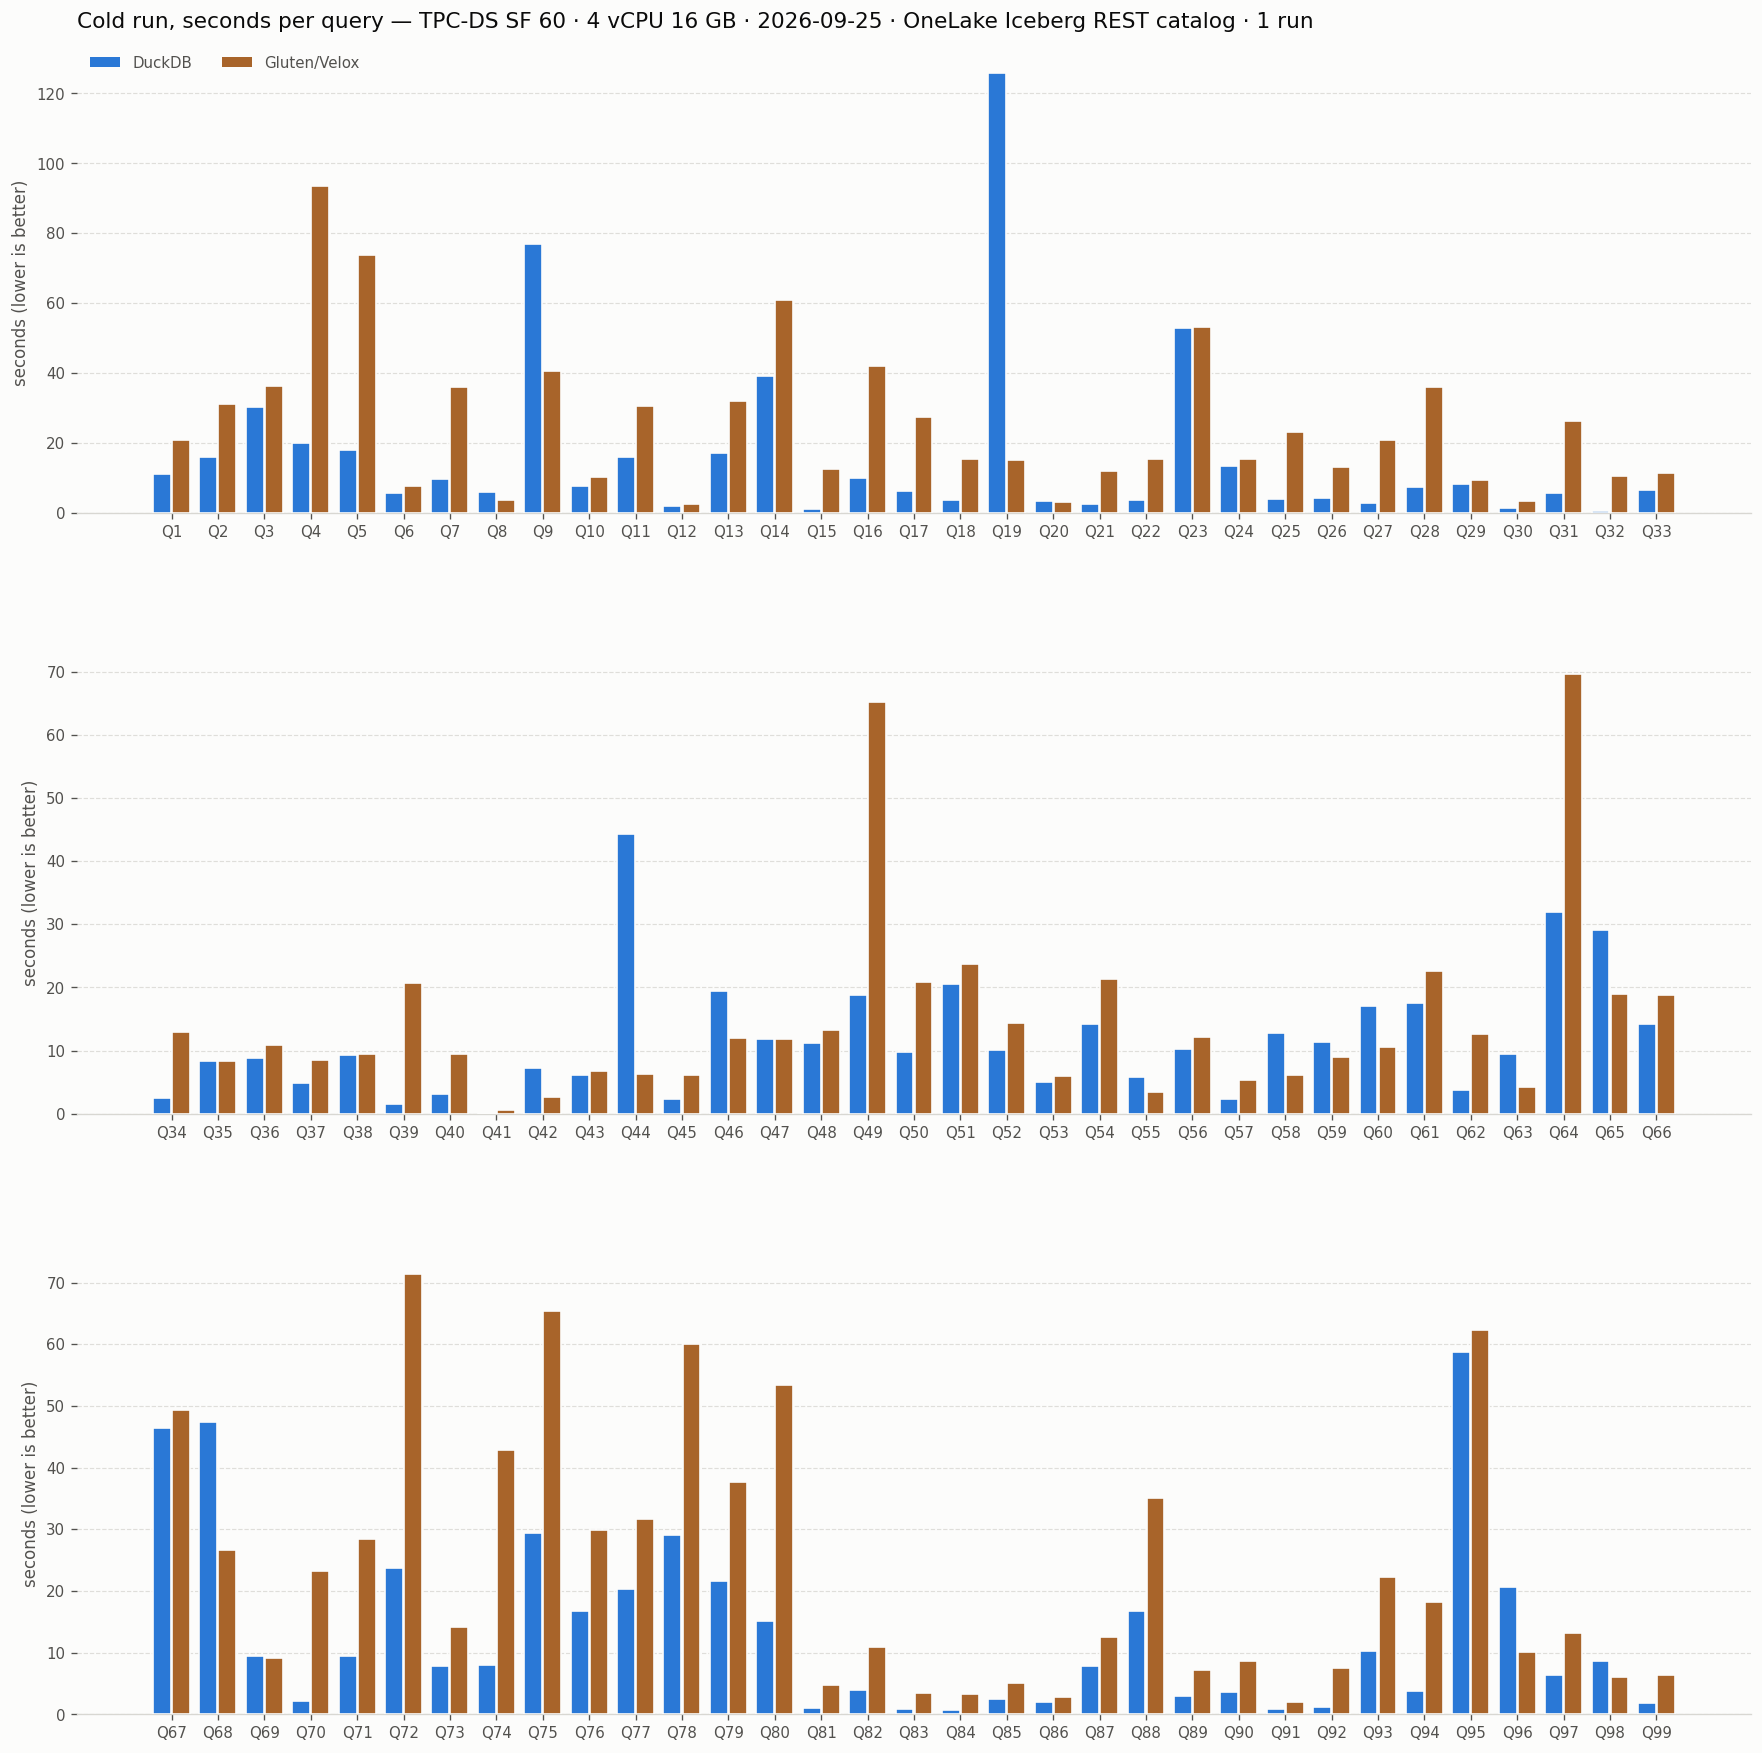
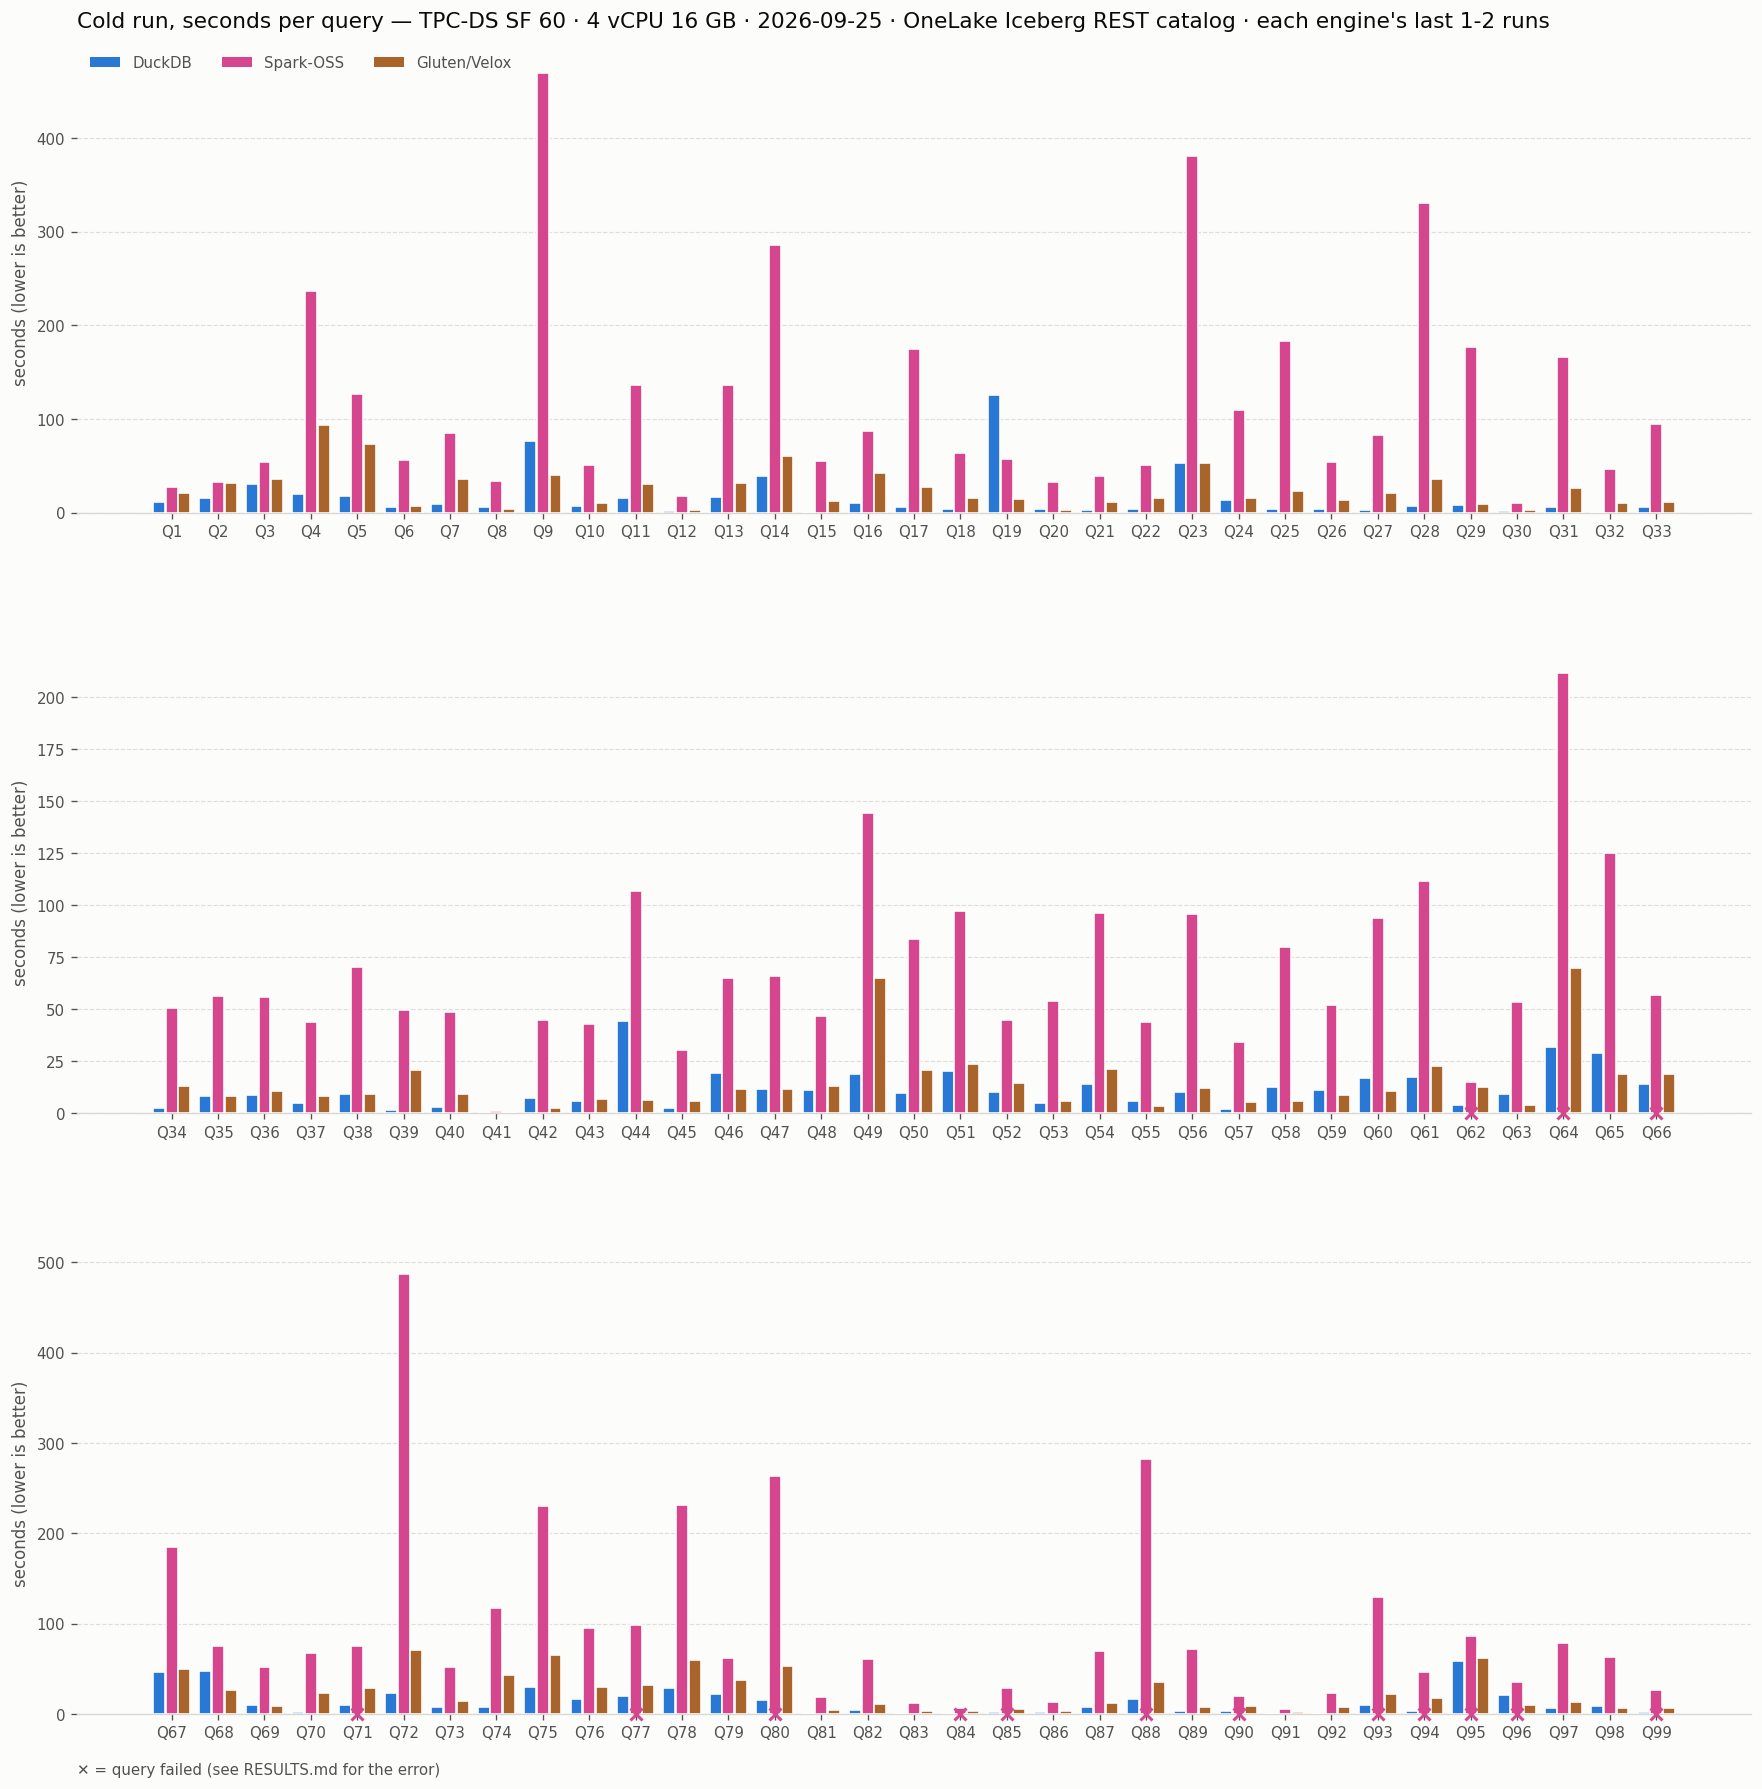
Bring Spark-OSS back to TPC-DS; redraw both suites' charts
Reverts the TPC-DS engine drop in 3305b71: Spark-OSS stays in the suite.
Its missing SF 100 bar is expected -- it is too slow to finish there.

Both suites' charts are redrawn from their stored headline runs with
publish.py's own code, so the horizontal totals chart with the N× labels
is live for TPC-H as well as TPC-DS.

diff --git a/bench/tpcds/config.py b/bench/tpcds/config.py
@@ -18,7 +18,7 @@ from dataclasses import dataclass
 
 from bench.config import SQL_DIR, Config
 
-# THE ENGINES THAT FINISH. TPC-H runs all seven; TPC-DS runs these two. Four of the rest were
+# THE ENGINES THAT FINISH. TPC-H runs all seven; TPC-DS runs these three. Four of the rest were
 # dropped on measurement, not taste -- run 35732997698 (SF=10) and 35732283791 (SF=1) are the
 # evidence, and every number below is from the SF=10 run over identical OneLake tables.
 #
@@ -36,16 +36,13 @@ from bench.config import SQL_DIR, Config
 #   daft_iceberg      never ran here: TPC-H already excludes it from the query benchmark
 #                     (Eventual-Inc/Daft#7532).
 #
-#   pyspark_iceberg   DROPPED 2026-09-26 FOR TIME, not for answers: it completes all 99, but in
-#                     2,170s at SF=10, 9,280s at SF=30 and 9,303s at SF=60 cold -- 22x, 25x and 6.8x
-#                     DuckDB -- which is a two-and-a-half-hour job per scale for a bar that only
-#                     says "stock Spark 4.1 without CBO". Gluten/Velox is Spark with the same
-#                     planner, so the non-DuckDB side is still measured. Its runs stay in
-#                     results/tpcds/; the headline charts draw from ENGINES only.
-#
-# What is left is DuckDB and Spark under Gluten/Velox.
+# What is left is DuckDB and Spark. Spark is slow --
+# ~42 min cold, and bench/tpch/engines/pyspark_iceberg.py's `refresh` exists because of it -- but
+# it is the only non-DuckDB engine that answers all 99, so dropping it would leave one engine
+# measured against itself.
 ENGINES = (
     "duckdb_iceberg",
+    "pyspark_iceberg",
     # Spark with Gluten/Velox underneath. Velox reads OneLake with a one-hour SAS (the engine
     # module says why), so a TPC-DS run has to finish inside that hour -- which is why
     # TpcdsConfig runs one pass.

diff --git a/docs/tpcds/RESULTS.md b/docs/tpcds/RESULTS.md
@@ -12,6 +12,7 @@ Each engine's most recent run at this scale; the newest run may not include ever
 |---|---|---:|---:|---|
 | DuckDB | `2.0.0.dev2609222040` | 1,367.0s | 6.7s | — |
 | Gluten/Velox | `4.1.1 + iceberg Apache Iceberg 1.11.0 (commit 6976e020b894f6a6777704df2b8c4458cb291ae9)` | 2,117.1s | 39.3s | — |
+| Spark-OSS | `4.1.3 + iceberg Apache Iceberg 1.11.0 (commit 6976e020b894f6a6777704df2b8c4458cb291ae9)` | 9,303.4s | 8.7s | — |
 
 One cold pass, the first after attaching the catalog. Attach is timed separately and excluded from the total.
 
@@ -19,110 +20,110 @@ One cold pass, the first after attaching the catalog. Attach is timed separately
 
 Seconds, cold pass. `—` means the query failed; see Failures above.
 
-| Query | DuckDB | Gluten/Velox |
-|---|---|---|
-| Q1 | 11.26 | 21.01 |
-| Q2 | 15.93 | 31.22 |
-| Q3 | 30.28 | 36.28 |
-| Q4 | 20.00 | 93.60 |
-| Q5 | 18.00 | 73.70 |
-| Q6 | 5.87 | 7.70 |
-| Q7 | 9.62 | 36.04 |
-| Q8 | 6.06 | 3.66 |
-| Q9 | 77.04 | 40.72 |
-| Q10 | 7.69 | 10.28 |
-| Q11 | 16.00 | 30.63 |
-| Q12 | 2.01 | 2.70 |
-| Q13 | 17.32 | 31.93 |
-| Q14 | 39.09 | 60.94 |
-| Q15 | 1.22 | 12.63 |
-| Q16 | 10.12 | 42.01 |
-| Q17 | 6.40 | 27.43 |
-| Q18 | 3.74 | 15.61 |
-| Q19 | 125.78 | 15.16 |
-| Q20 | 3.51 | 3.29 |
-| Q21 | 2.52 | 11.97 |
-| Q22 | 3.65 | 15.36 |
-| Q23 | 52.78 | 53.12 |
-| Q24 | 13.36 | 15.61 |
-| Q25 | 4.14 | 23.08 |
-| Q26 | 4.19 | 13.25 |
-| Q27 | 3.03 | 20.98 |
-| Q28 | 7.48 | 36.19 |
-| Q29 | 8.21 | 9.55 |
-| Q30 | 1.43 | 3.40 |
-| Q31 | 5.76 | 26.28 |
-| Q32 | 0.67 | 10.62 |
-| Q33 | 6.64 | 11.40 |
-| Q34 | 2.43 | 12.98 |
-| Q35 | 8.43 | 8.40 |
-| Q36 | 8.77 | 10.93 |
-| Q37 | 4.84 | 8.55 |
-| Q38 | 9.28 | 9.44 |
-| Q39 | 1.57 | 20.68 |
-| Q40 | 3.11 | 9.50 |
-| Q41 | 0.11 | 0.51 |
-| Q42 | 7.27 | 2.60 |
-| Q43 | 6.07 | 6.72 |
-| Q44 | 44.36 | 6.28 |
-| Q45 | 2.38 | 6.08 |
-| Q46 | 19.42 | 11.93 |
-| Q47 | 11.84 | 11.88 |
-| Q48 | 11.19 | 13.23 |
-| Q49 | 18.73 | 65.21 |
-| Q50 | 9.76 | 20.83 |
-| Q51 | 20.57 | 23.65 |
-| Q52 | 10.06 | 14.36 |
-| Q53 | 4.97 | 5.97 |
-| Q54 | 14.18 | 21.32 |
-| Q55 | 5.76 | 3.51 |
-| Q56 | 10.33 | 12.13 |
-| Q57 | 2.27 | 5.35 |
-| Q58 | 12.73 | 6.12 |
-| Q59 | 11.40 | 9.04 |
-| Q60 | 17.11 | 10.59 |
-| Q61 | 17.56 | 22.67 |
-| Q62 | 3.80 | 12.67 |
-| Q63 | 9.39 | 4.24 |
-| Q64 | 31.93 | 69.68 |
-| Q65 | 29.02 | 18.97 |
-| Q66 | 14.18 | 18.79 |
-| Q67 | 46.41 | 49.34 |
-| Q68 | 47.34 | 26.68 |
-| Q69 | 9.49 | 9.15 |
-| Q70 | 2.09 | 23.18 |
-| Q71 | 9.47 | 28.36 |
-| Q72 | 23.69 | 71.33 |
-| Q73 | 7.84 | 14.13 |
-| Q74 | 8.03 | 42.80 |
-| Q75 | 29.39 | 65.42 |
-| Q76 | 16.77 | 29.86 |
-| Q77 | 20.40 | 31.66 |
-| Q78 | 29.13 | 60.05 |
-| Q79 | 21.57 | 37.62 |
-| Q80 | 15.16 | 53.34 |
-| Q81 | 0.97 | 4.72 |
-| Q82 | 4.02 | 10.95 |
-| Q83 | 0.94 | 3.45 |
-| Q84 | 0.62 | 3.33 |
-| Q85 | 2.55 | 5.11 |
-| Q86 | 2.05 | 2.85 |
-| Q87 | 7.77 | 12.61 |
-| Q88 | 16.77 | 35.12 |
-| Q89 | 3.03 | 7.18 |
-| Q90 | 3.64 | 8.65 |
-| Q91 | 0.79 | 2.00 |
-| Q92 | 1.14 | 7.54 |
-| Q93 | 10.19 | 22.25 |
-| Q94 | 3.77 | 18.16 |
-| Q95 | 58.79 | 62.35 |
-| Q96 | 20.71 | 10.11 |
-| Q97 | 6.42 | 13.23 |
-| Q98 | 8.57 | 6.08 |
-| Q99 | 1.88 | 6.36 |
+| Query | DuckDB | Gluten/Velox | Spark-OSS |
+|---|---|---|---|
+| Q1 | 11.26 | 21.01 | 29.48 |
+| Q2 | 15.93 | 31.22 | 34.46 |
+| Q3 | 30.28 | 36.28 | 66.95 |
+| Q4 | 20.00 | 93.60 | 236.89 |
+| Q5 | 18.00 | 73.70 | 125.34 |
+| Q6 | 5.87 | 7.70 | 56.32 |
+| Q7 | 9.62 | 36.04 | 83.49 |
+| Q8 | 6.06 | 3.66 | 33.41 |
+| Q9 | 77.04 | 40.72 | 468.02 |
+| Q10 | 7.69 | 10.28 | 49.52 |
+| Q11 | 16.00 | 30.63 | 134.89 |
+| Q12 | 2.01 | 2.70 | 17.27 |
+| Q13 | 17.32 | 31.93 | 84.89 |
+| Q14 | 39.09 | 60.94 | 282.76 |
+| Q15 | 1.22 | 12.63 | 55.46 |
+| Q16 | 10.12 | 42.01 | 88.04 |
+| Q17 | 6.40 | 27.43 | 170.18 |
+| Q18 | 3.74 | 15.61 | 61.60 |
+| Q19 | 125.78 | 15.16 | 52.81 |
+| Q20 | 3.51 | 3.29 | 32.02 |
+| Q21 | 2.52 | 11.97 | 49.58 |
+| Q22 | 3.65 | 15.36 | 51.24 |
+| Q23 | 52.78 | 53.12 | 380.31 |
+| Q24 | 13.36 | 15.61 | 107.54 |
+| Q25 | 4.14 | 23.08 | 186.13 |
+| Q26 | 4.19 | 13.25 | 54.68 |
+| Q27 | 3.03 | 20.98 | 81.35 |
+| Q28 | 7.48 | 36.19 | 319.31 |
+| Q29 | 8.21 | 9.55 | 171.31 |
+| Q30 | 1.43 | 3.40 | 12.26 |
+| Q31 | 5.76 | 26.28 | 154.68 |
+| Q32 | 0.67 | 10.62 | 44.66 |
+| Q33 | 6.64 | 11.40 | 89.58 |
+| Q34 | 2.43 | 12.98 | 47.68 |
+| Q35 | 8.43 | 8.40 | 53.97 |
+| Q36 | 8.77 | 10.93 | 54.79 |
+| Q37 | 4.84 | 8.55 | 43.99 |
+| Q38 | 9.28 | 9.44 | 66.90 |
+| Q39 | 1.57 | 20.68 | 51.02 |
+| Q40 | 3.11 | 9.50 | 47.36 |
+| Q41 | 0.11 | 0.51 | 1.27 |
+| Q42 | 7.27 | 2.60 | 43.04 |
+| Q43 | 6.07 | 6.72 | 40.67 |
+| Q44 | 44.36 | 6.28 | 100.99 |
+| Q45 | 2.38 | 6.08 | 29.14 |
+| Q46 | 19.42 | 11.93 | 60.37 |
+| Q47 | 11.84 | 11.88 | 61.03 |
+| Q48 | 11.19 | 13.23 | 43.66 |
+| Q49 | 18.73 | 65.21 | 134.03 |
+| Q50 | 9.76 | 20.83 | 81.97 |
+| Q51 | 20.57 | 23.65 | 95.40 |
+| Q52 | 10.06 | 14.36 | 43.64 |
+| Q53 | 4.97 | 5.97 | 51.67 |
+| Q54 | 14.18 | 21.32 | 93.36 |
+| Q55 | 5.76 | 3.51 | 40.75 |
+| Q56 | 10.33 | 12.13 | 89.41 |
+| Q57 | 2.27 | 5.35 | 32.11 |
+| Q58 | 12.73 | 6.12 | 78.23 |
+| Q59 | 11.40 | 9.04 | 50.09 |
+| Q60 | 17.11 | 10.59 | 92.34 |
+| Q61 | 17.56 | 22.67 | 115.74 |
+| Q62 | 3.80 | 12.67 | 15.26 |
+| Q63 | 9.39 | 4.24 | 53.68 |
+| Q64 | 31.93 | 69.68 | 211.58 |
+| Q65 | 29.02 | 18.97 | 125.90 |
+| Q66 | 14.18 | 18.79 | 56.88 |
+| Q67 | 46.41 | 49.34 | 183.75 |
+| Q68 | 47.34 | 26.68 | 76.91 |
+| Q69 | 9.49 | 9.15 | 53.21 |
+| Q70 | 2.09 | 23.18 | 68.10 |
+| Q71 | 9.47 | 28.36 | 75.43 |
+| Q72 | 23.69 | 71.33 | 489.41 |
+| Q73 | 7.84 | 14.13 | 55.12 |
+| Q74 | 8.03 | 42.80 | 121.06 |
+| Q75 | 29.39 | 65.42 | 245.67 |
+| Q76 | 16.77 | 29.86 | 101.47 |
+| Q77 | 20.40 | 31.66 | 98.92 |
+| Q78 | 29.13 | 60.05 | 237.75 |
+| Q79 | 21.57 | 37.62 | 64.92 |
+| Q80 | 15.16 | 53.34 | 263.00 |
+| Q81 | 0.97 | 4.72 | 23.70 |
+| Q82 | 4.02 | 10.95 | 62.37 |
+| Q83 | 0.94 | 3.45 | 13.97 |
+| Q84 | 0.62 | 3.33 | 7.08 |
+| Q85 | 2.55 | 5.11 | 28.20 |
+| Q86 | 2.05 | 2.85 | 13.85 |
+| Q87 | 7.77 | 12.61 | 71.89 |
+| Q88 | 16.77 | 35.12 | 282.02 |
+| Q89 | 3.03 | 7.18 | 73.75 |
+| Q90 | 3.64 | 8.65 | 19.46 |
+| Q91 | 0.79 | 2.00 | 5.81 |
+| Q92 | 1.14 | 7.54 | 23.78 |
+| Q93 | 10.19 | 22.25 | 129.97 |
+| Q94 | 3.77 | 18.16 | 46.19 |
+| Q95 | 58.79 | 62.35 | 86.60 |
+| Q96 | 20.71 | 10.11 | 35.36 |
+| Q97 | 6.42 | 13.23 | 80.33 |
+| Q98 | 8.57 | 6.08 | 63.34 |
+| Q99 | 1.88 | 6.36 | 26.66 |
 
 ## History
 
-1,100 timed statements across 10 runs.
+1,600 timed statements across 13 runs.
 Raw data: one immutable JSON per run under [`results/tpcds/`](../../results/tpcds/), flattened to [`data/tpcds_results.csv`](../data/tpcds_results.csv).
 
